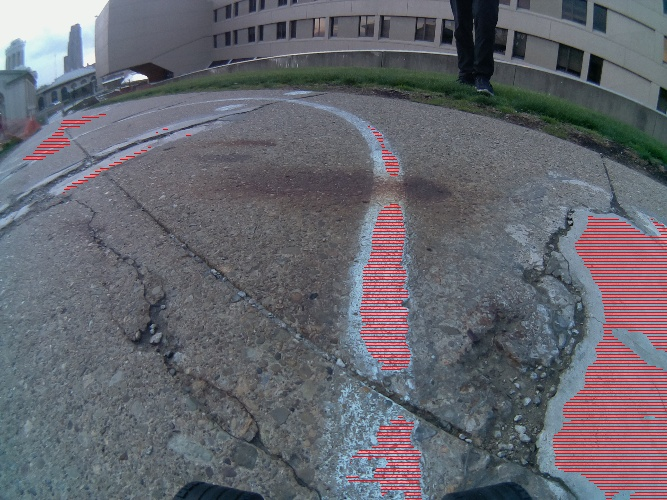
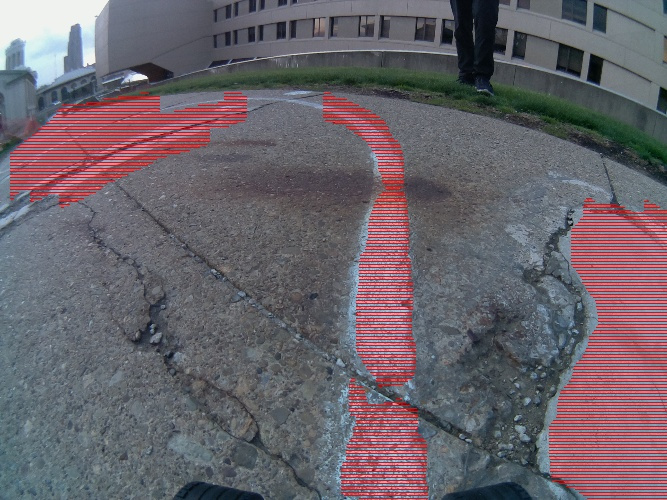
segmentation is prob good enough

diff --git a/line_detector.py b/line_detector.py
@@ -11,52 +11,50 @@ while True:
     orig = cv2.imread(fname)
     if orig is None:
         break
-    orig = rescale(orig)
+    pix = 500
+    orig = rescale(orig, pix=pix)
     cv2_view(orig=orig)
 
     gray = bgr2gray(orig)
-    gray[:100,:] = np.mean(gray)
+    gray[:pix//5,:] = np.mean(gray)
     cv2_view(gray=gray)
-    blur = cv2.blur(gray, (10,10))
-    cv2_view(blur=blur)
+    gray = cv2.blur(gray, (10,10))
+    cv2_view(blur=gray)
 
-    crop = blur[-int(blur.shape[0]*.5):,:]
+    crop = gray[-int(gray.shape[0]*.5):,:]
     thresh_val = np.percentile(crop, 90, axis=(0,1))
     print(thresh_val)
     
     # globally segment lines generously
     val = filters.threshold_otsu(crop)
-    _, thresh_init = cv2.threshold(blur,val-5,255,cv2.THRESH_BINARY)
-    blur[thresh_init==0] = 0
+    _, thresh_init = cv2.threshold(gray,val-5,255,cv2.THRESH_BINARY)
+    gray[thresh_init==0] = 0
     cv2_view(thresh=thresh_init)
-    cv2_view(blur=blur)
-
-    # deal with brighter floor patches
-    # thresh_regions = thresh_init.copy()
-    # region_height = 100
-    # for i in range(blur.shape[0] // region_height + 1):
-    #     region = blur[i*region_height:min((i+1)*region_height,blur.shape[0]),:]
-    #     # std = np.std(region[region!=0])
-    #     # mean = np.mean(region[region!=0] - .2*std)
-    #     # region[region==0] = np.random.normal(loc=mean, scale=std)
-    #     # region[region==0] = np.random.randint(0,256)
-    #     region = np.where(region==0,np.random.randint(0,256,size=region.shape),region).astype(np.uint8)
-    #     val = calc_threshold(region)
-    #     print(val)
-    #     _, thresh_region = cv2.threshold(region,val,255,cv2.THRESH_BINARY)
-    #     thresh_regions[i*region_height:(i+1)*region_height,:] = thresh_region
-    # thresh_full = bin2gray(np.bitwise_and(thresh_regions==255, thresh_init==255))
-    # blur[thresh_full==0] = 0
-    # cv2_view(thresh_regions=thresh_regions)
-    # cv2_view(thresh_full=thresh_full)
-    # cv2_view(blur=blur)
+    cv2_view(blur=gray)
 
     # cleanup stray bits
-    val = filters.threshold_otsu(blur[thresh_init!=0])-5
-    _, thresh_stray = cv2.threshold(blur,val,255,cv2.THRESH_BINARY)
+    val = filters.threshold_otsu(gray[thresh_init!=0])-10
+    _, thresh_stray = cv2.threshold(gray,val,255,cv2.THRESH_BINARY)
+    gray[thresh_stray==0] = 0
     cv2_view(thresh_stray=thresh_stray)
 
-    binary = thresh_stray
+    # remove small segments
+    min_size = pix * pix / 250
+    nb_components, output, stats, centroids = cv2.connectedComponentsWithStats(
+        gray, connectivity=8
+    )
+    sizes = stats[:, -1]
+    max_label = 1
+    for i in range(2, nb_components):
+        if sizes[i] < min_size:
+            gray[output == i] = 0
+
+    cv2_view(gray=gray)
+    gray = cv2.blur(gray, (5, 25))
+    gray[gray!=0] = 255
+
+    cv2_view(gray=gray)
+    binary = gray
 
 
     # crop = blur[-int(blur.shape[0]*.4):,:]
@@ -85,15 +83,7 @@ while True:
     # cv2.imshow('img', blur)
     # cv2_wait()
 
-    # min_size = 1000
-    # nb_components, output, stats, centroids = cv2.connectedComponentsWithStats(
-    #     blur, connectivity=8
-    # )
-    # sizes = stats[:, -1]
-    # max_label = 1
-    # for i in range(2, nb_components):
-    #     if sizes[i] < min_size:
-    #         blur[output == i] = 0
+    
     
     # print('blur remove small components')
     # cv2.imshow('img', blur)
